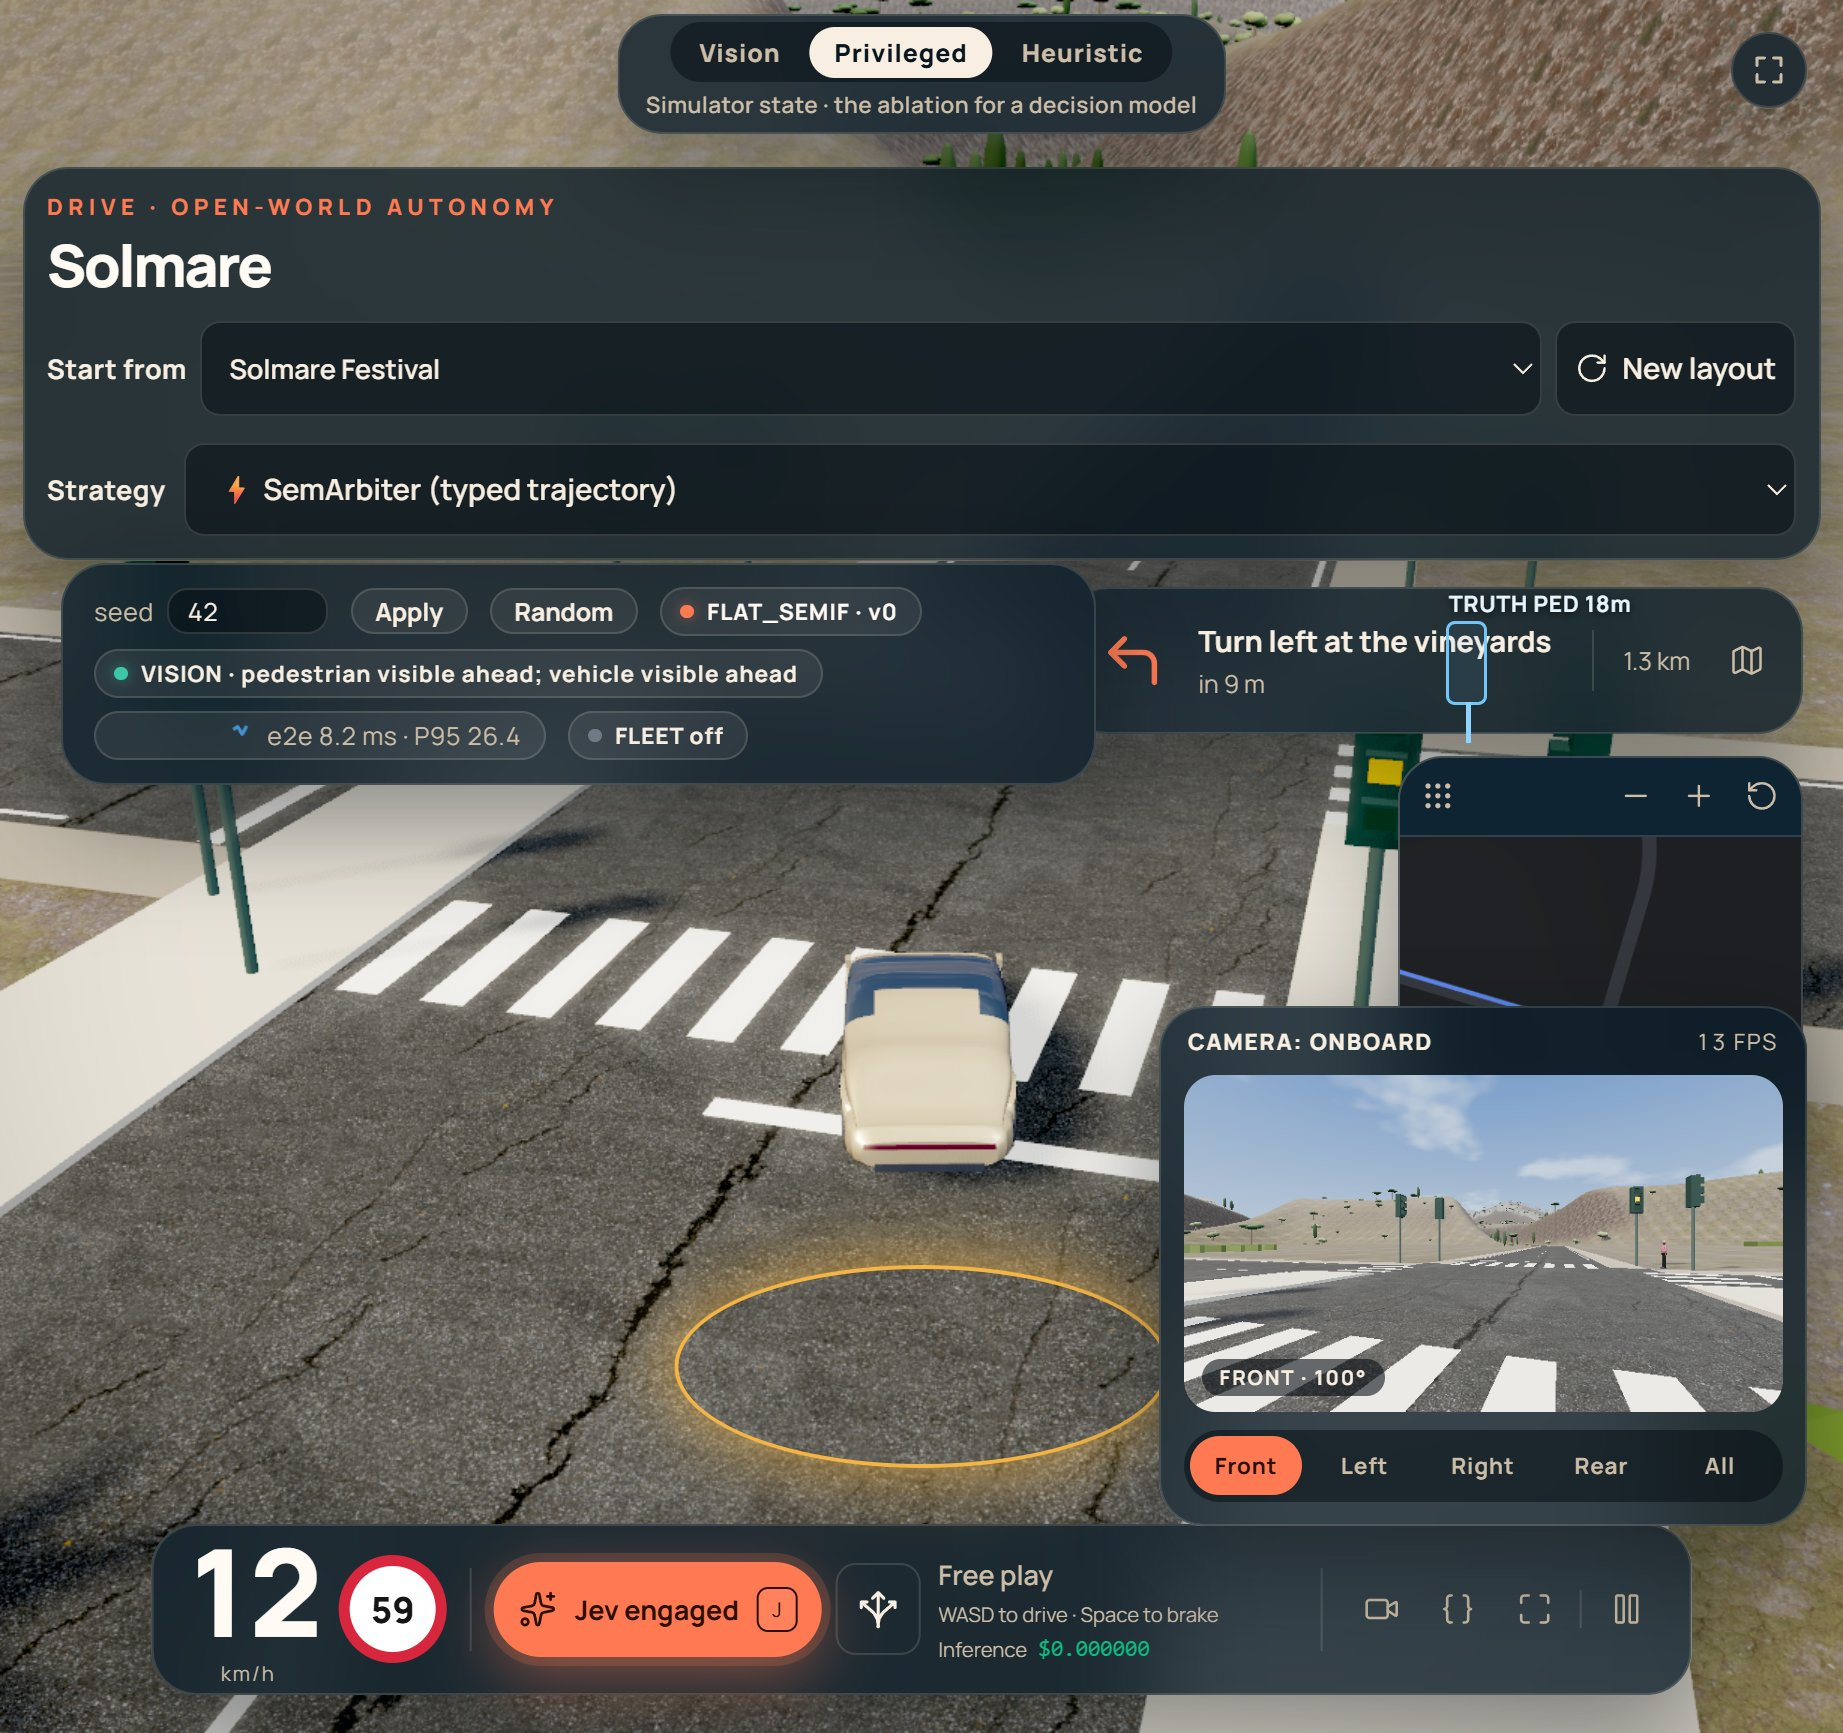
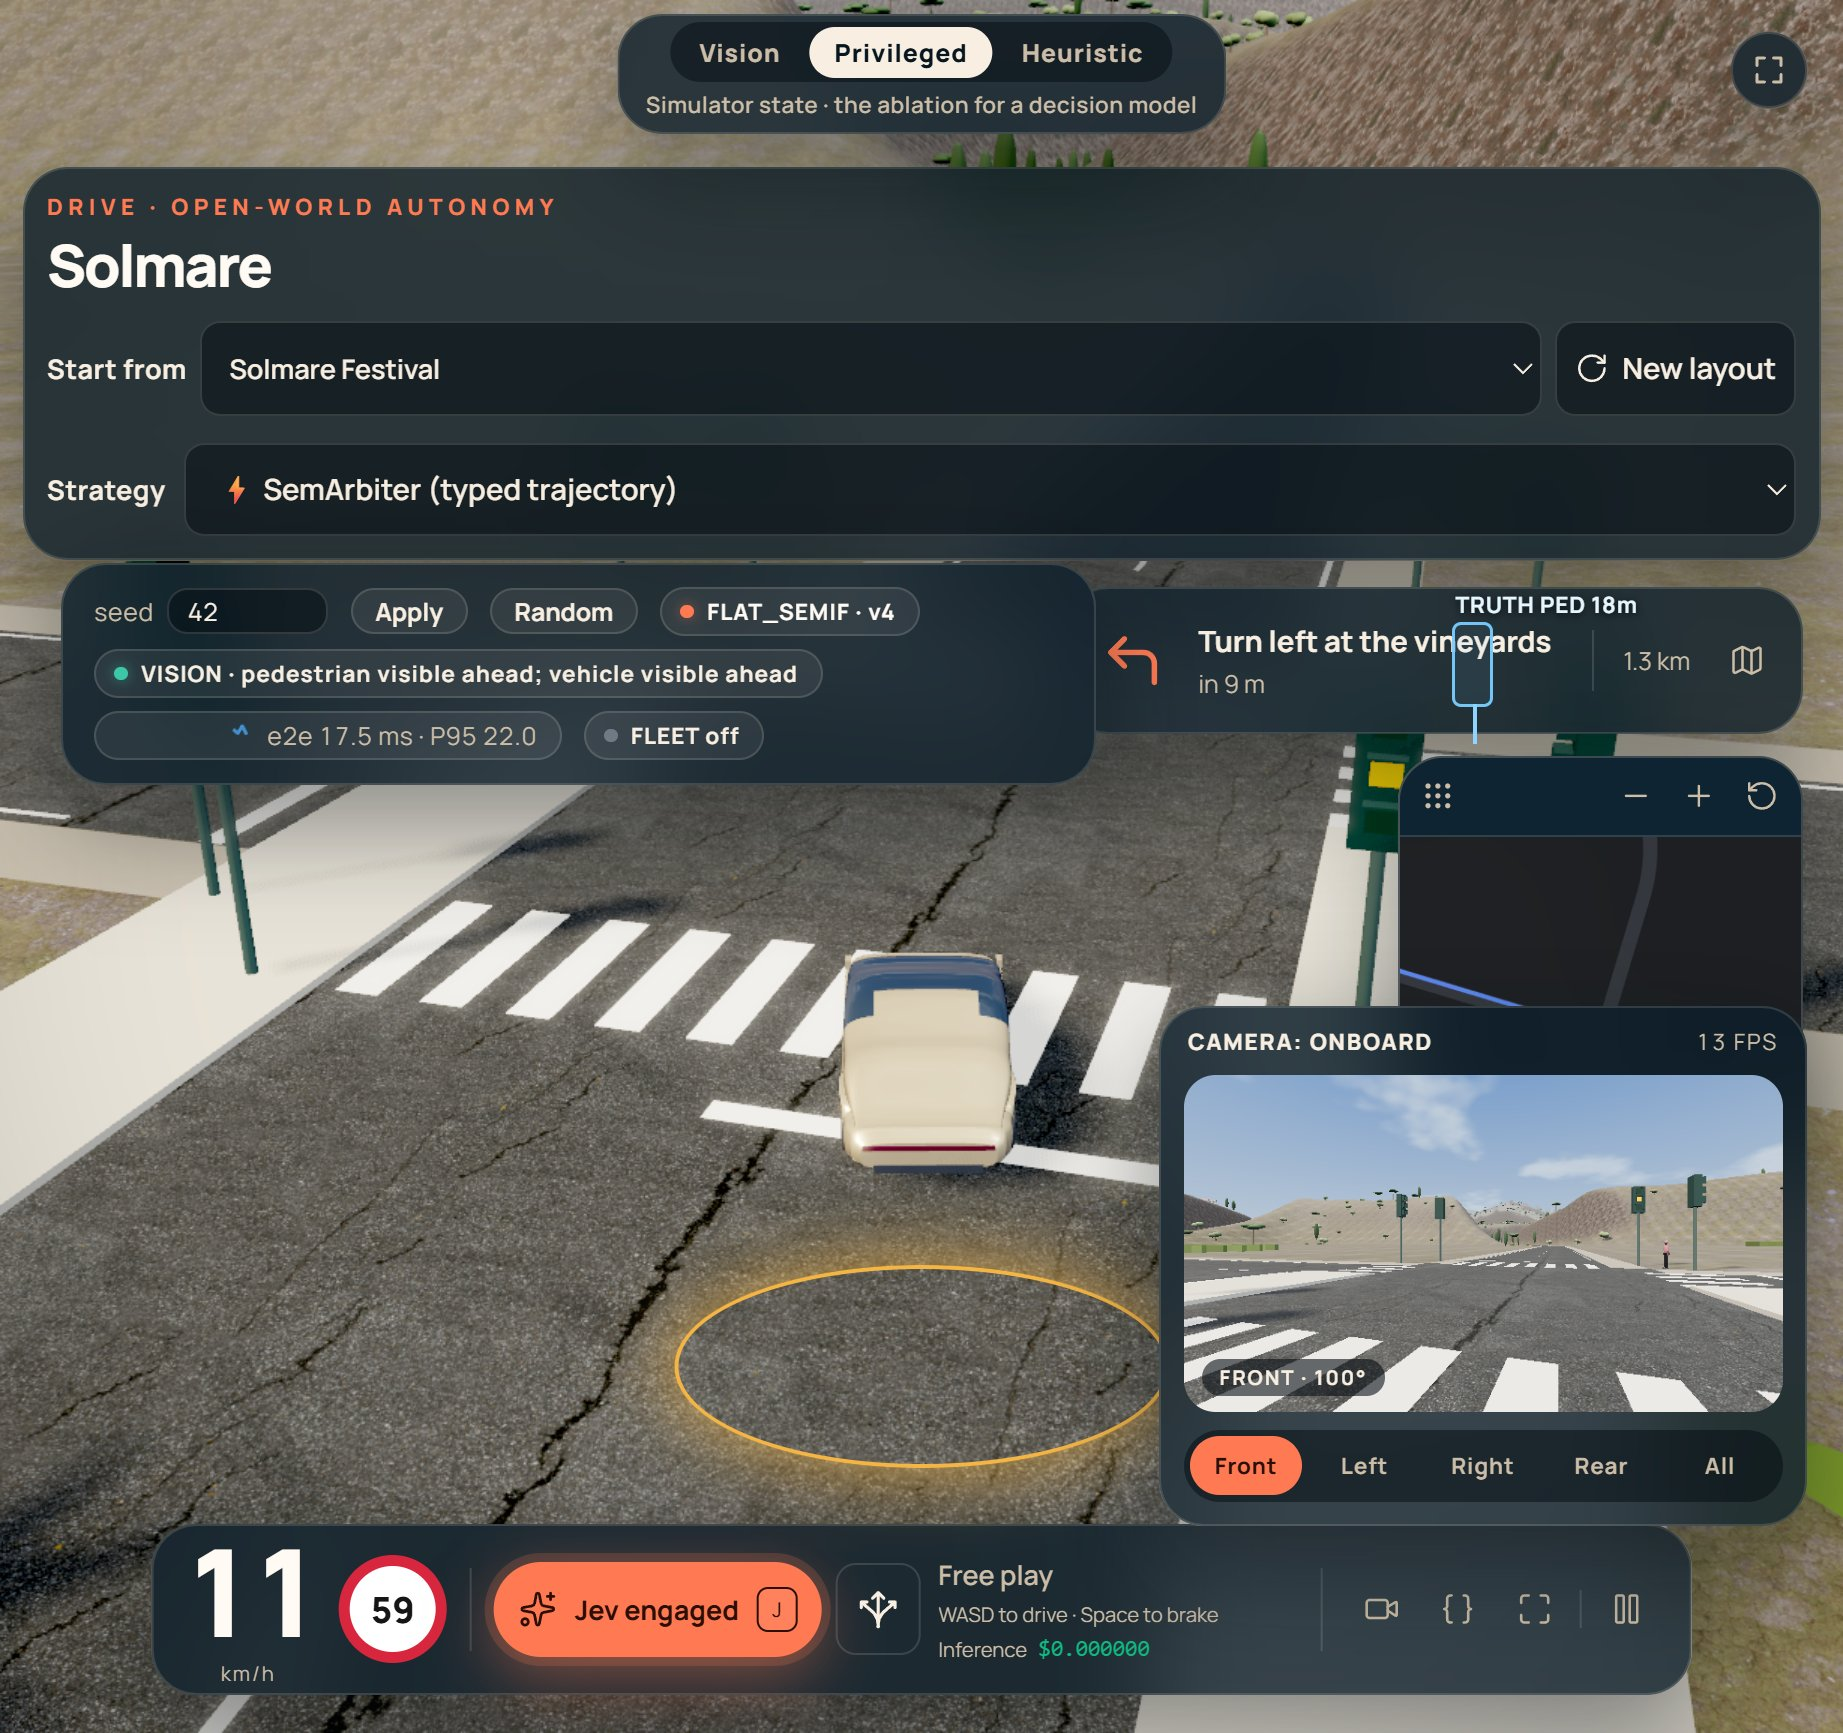
fix(ui): review: camera boxes are placed from the car's pose when the frame was grabbed; junk objects are skipped (#54)

diff --git a/jevpilot_vision/web/semif-layer.js b/jevpilot_vision/web/semif-layer.js
@@ -1055,6 +1055,20 @@
   const SEEN_HEIGHT_M = { pedestrian: 1.7, car: 1.5, motorcycle: 1.6 }; // perception.HEIGHT_M
   const SEEN_STALE_MS = 1500; // vision_mode.STALE_MS: older evidence is no evidence
 
+  // Where the car was over the last 2 s: perception is relative to the frame grabbed at
+  // SEMIF_VISION_AT, so its objects are placed from the car's pose then, not now.
+  const poseLog = [];
+  function logPose(player) {
+    const t = performance.now();
+    poseLog.push({ t, x: player.x, z: player.z, heading: player.heading || 0 });
+    while (poseLog.length && poseLog[0].t < t - 2000) poseLog.shift();
+  }
+  function poseAt(t, player) {
+    let best = null;
+    for (const p of poseLog) if (p.t <= t && (!best || p.t > best.t)) best = p;
+    return best || player;
+  }
+
   function seenToWorld(player, ahead, right) {
     const h = player.heading || 0;
     const fwd = ahead + CAMERA_AHEAD_M;
@@ -1070,19 +1084,22 @@
     if (window.SEMIF_DRIVE_MODE === "vision") {
       const vis = window.SEMIF_VISION;
       const objects = vis && vis.perception && Array.isArray(vis.perception.objects) ? vis.perception.objects : [];
-      const age = performance.now() - Number(window.SEMIF_VISION_AT);
+      const takenAt = Number(window.SEMIF_VISION_AT);
+      const age = performance.now() - takenAt;
       if (!(age >= 0 && age <= SEEN_STALE_MS)) return [];
+      const then = poseAt(takenAt, sim.player);
       const out = [];
       for (const o of objects) {
-        const ahead = Number(o && o.ahead_m);
-        const right = Number(o && o.right_m);
-        if (!(o.kind in SEEN_HEIGHT_M) || !Number.isFinite(ahead) || !Number.isFinite(right)) continue;
-        const at = seenToWorld(sim.player, ahead, right);
+        if (!o || !Object.prototype.hasOwnProperty.call(SEEN_HEIGHT_M, o.kind)) continue;
+        const ahead = Number(o.ahead_m);
+        const right = Number(o.right_m);
+        if (!Number.isFinite(ahead) || !Number.isFinite(right)) continue;
+        const at = seenToWorld(then, ahead, right);
         out.push({
           x: at.x,
           z: at.z,
           height: SEEN_HEIGHT_M[o.kind],
-          d: Math.hypot(ahead, right),
+          d: dist2(at, sim.player), // from the car now, to where the camera saw it
           tag: o.kind === "pedestrian" ? "PED" : "VEH",
           source: "CAM",
           hazard: false,
@@ -1111,6 +1128,7 @@
     const w = world.canvas.clientWidth;
     const h = world.canvas.clientHeight;
     const camera = world.camera;
+    if (sim.player) logPose(sim.player);
     let nearest = Infinity;
     for (const obj of boxTargets(sim)) {
       const d = obj.d;

diff --git a/tests/test_fsd_pip_overlay.py b/tests/test_fsd_pip_overlay.py
@@ -919,13 +919,20 @@ if (spec.cmd === "cstats") {
   window.SEMIF_VISION_AT = nowMs - (spec.age == null ? 200 : spec.age);
   window.SEMIF_SIM = sim;
   window.SEMIF_WORLD = { canvas: worldCanvas, camera: camera(640, 360) };
+  if (spec.moved) {
+    // The frame was grabbed 200 ms ago with the car here; since then it drove spec.moved m ahead.
+    nowMs -= 200;
+    window.__raf();
+    nowMs += 200;
+    player.z -= spec.moved;
+  }
   window.__raf();
   const boxEls = document.getElementById("fsd-boxes").children;
   process.stdout.write(JSON.stringify({
     mode: window.SEMIF_DRIVE_MODE,
     reads,
     labels: boxEls.map((b) => (b.innerHTML.match(/<span>([^<]*)<\/span>/) || [])[1] || b.innerHTML),
-    lefts: boxEls.map((b) => parseFloat(b.style.left)),
+    centres: boxEls.map((b) => parseFloat(b.style.left) + parseFloat(b.style.width) / 2),
     halo: document.getElementById("fsd-halo").dataset.level || "",
   }));
 } else if (spec.cmd === "candidates") {
@@ -1452,3 +1459,17 @@ def test_issue54_privileged_boxes_say_they_are_the_truth():
     out = _run({"cmd": "boxes", "mode": "privileged", "objects": []})
     assert out["labels"] == ["TRUTH PED 12m"], out["labels"]
     assert out["halo"] == "watch"
+
+
+def test_issue54_review_camera_boxes_are_placed_from_where_the_car_was_when_the_frame_was_taken():
+    person = {"kind": "pedestrian", "ahead_m": 9.85, "right_m": 1.0, "width_m": 0.5, "conf": 0.9}
+    out = _run({"cmd": "boxes", "mode": "vision", "objects": [person], "moved": 3.0})
+    assert out["labels"] == ["CAM PED 7m"], "10 m when the frame was taken, 3 m driven since"
+
+
+def test_issue54_review_a_person_seen_to_the_right_is_drawn_right_of_centre_and_junk_is_skipped():
+    person = {"kind": "pedestrian", "ahead_m": 9.85, "right_m": 1.0, "width_m": 0.5, "conf": 0.9}
+    junk = [None, {"kind": "constructor", "ahead_m": 5.0, "right_m": 0.0}, {"kind": "car", "ahead_m": "near", "right_m": 0.0}]
+    out = _run({"cmd": "boxes", "mode": "vision", "objects": junk + [person]})
+    assert out["labels"] == ["CAM PED 10m"]
+    assert out["centres"][0] > 320, out["centres"]
